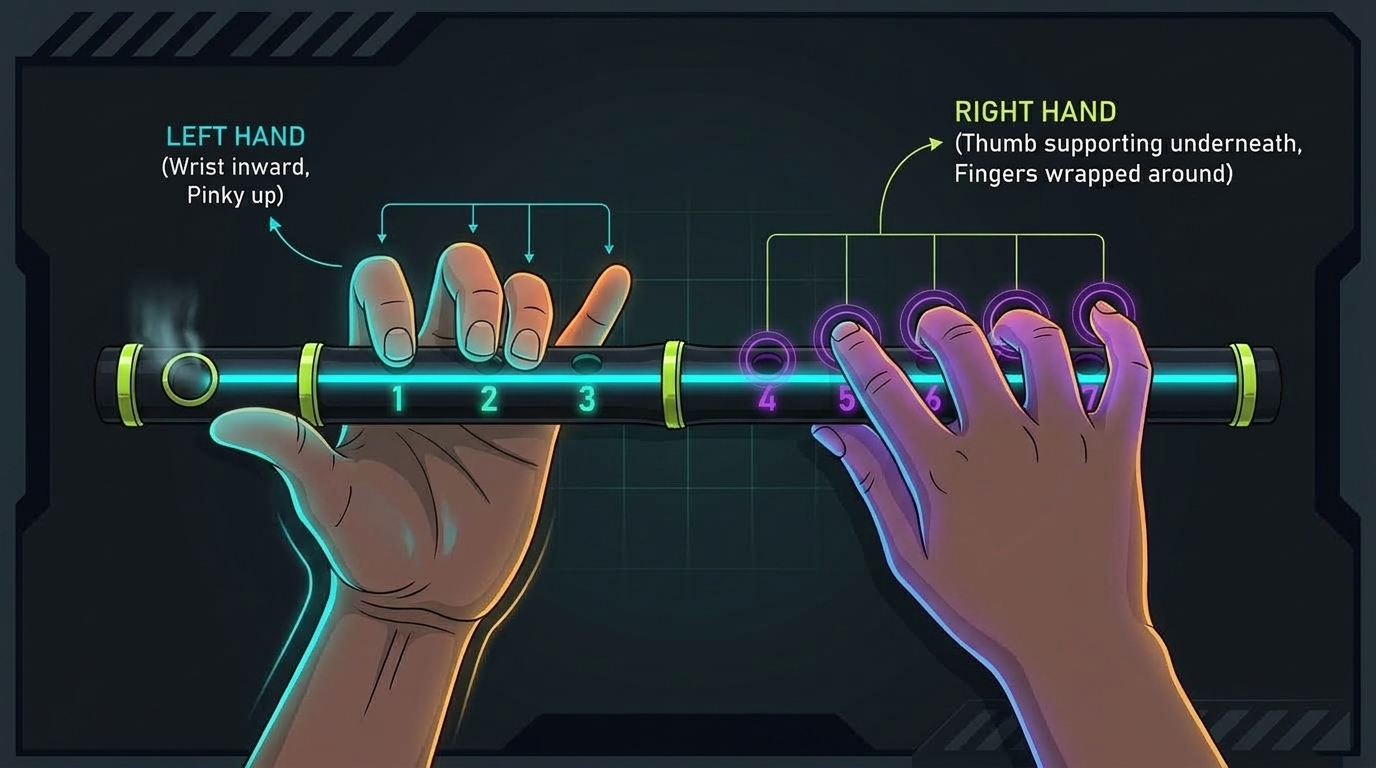
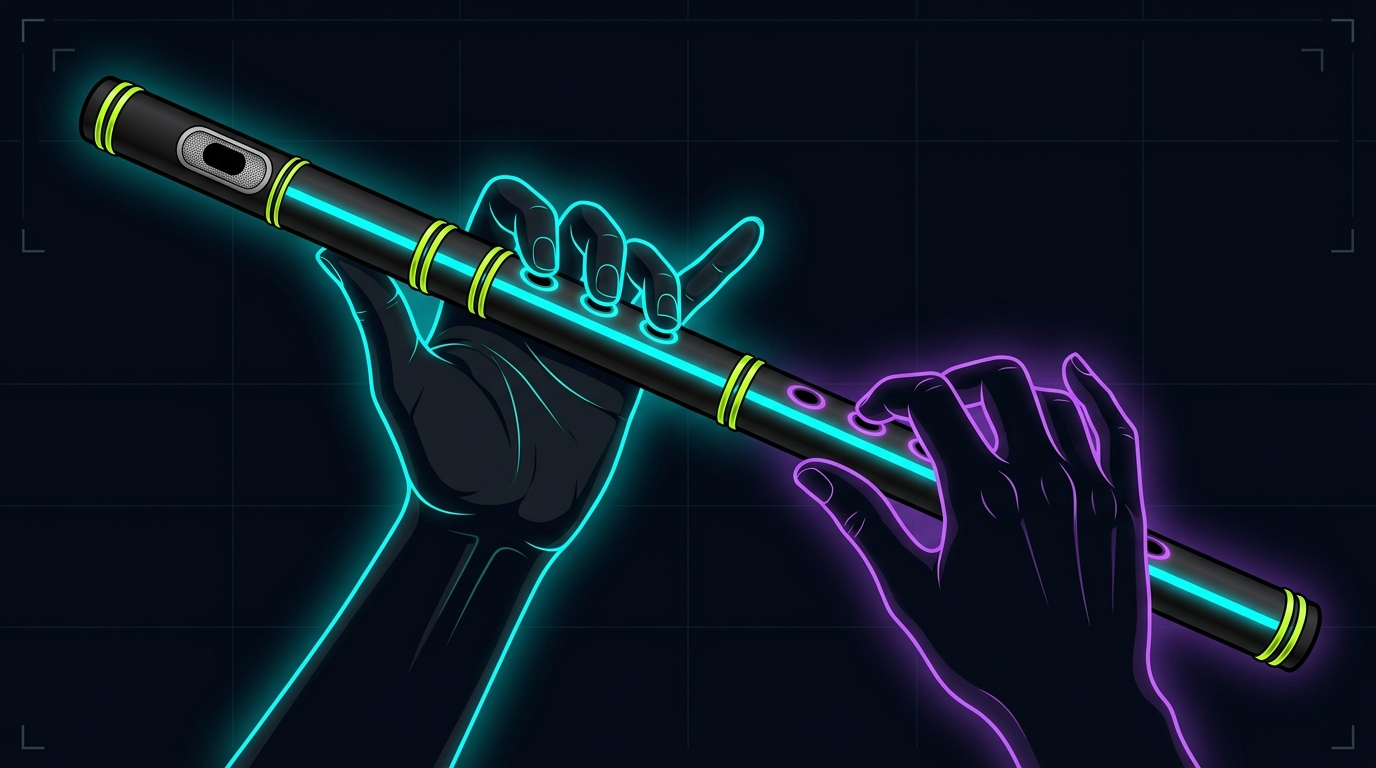
fixed learning page

diff --git a/index.html b/index.html
@@ -357,49 +357,104 @@
             </div>
 
             <!-- Upper-Half Body Animated Player Stance SVG Graphic -->
-            <!-- First-Person POV Hand Placement Graphic (Option 3 Authentic Artwork) -->
+            <!-- First-Person POV Hand Placement Graphic (Option 3 Slanted Aer Bender Flute) -->
             <div class="step-illustration-container player-perspective-container">
               <div class="step1-visual-canvas">
-                <img src="assets/images/flute_first_person_pov.jpg" alt="First-Person POV Flute Hand Placement" class="step1-base-img" />
+                <img src="assets/images/flute_first_person_pov.jpg" alt="First-Person POV Slanted Flute Hand Placement" class="step1-base-img" />
                 <svg viewBox="0 0 1376 768" class="step-flute-posture-svg" id="step1PostureSvg" preserveAspectRatio="xMidYMid meet">
                   <!-- Embedded Fallback Image -->
                   <image href="assets/images/flute_first_person_pov.jpg" xlink:href="assets/images/flute_first_person_pov.jpg" x="0" y="0" width="1376" height="768" preserveAspectRatio="xMidYMid meet" opacity="0"/>
 
                   <!-- Player Upper Body / Hand Stance Interactive Overlay -->
                   <g class="player-upper-body" id="playerUpperBodyStance">
-                    <!-- Embouchure Blow Marker & Breath Waves -->
-                    <g class="step-embouchure-marker" transform="translate(190, 384)">
-                      <circle cx="0" cy="0" r="14" fill="#00f0ff" class="pulse-blow-core" opacity="0.35"/>
-                      <path class="breath-wave anim-b1" d="M -12 -22 Q -6 -7 0 0" stroke="#00f0ff" stroke-width="2.5" stroke-linecap="round" fill="none"/>
-                      <path class="breath-wave anim-b2" d="M 0 -26 Q 0 -9 0 0" stroke="#ccff00" stroke-width="2.8" stroke-linecap="round" fill="none"/>
-                      <path class="breath-wave anim-b3" d="M 12 -22 Q 6 -7 0 0" stroke="#00f0ff" stroke-width="2.5" stroke-linecap="round" fill="none"/>
+                    <!-- Embouchure Blow Marker & Concentric Breath Waves -->
+                    <g class="step-embouchure-marker" transform="translate(215, 205)">
+                      <circle cx="0" cy="0" r="16" fill="#00f0ff" class="pulse-blow-core" opacity="0.35"/>
+                      <path class="breath-wave anim-b1" d="M -14 -22 Q -7 -7 0 0" stroke="#00f0ff" stroke-width="2.6" stroke-linecap="round" fill="none"/>
+                      <path class="breath-wave anim-b2" d="M 0 -26 Q 0 -9 0 0" stroke="#ccff00" stroke-width="3" stroke-linecap="round" fill="none"/>
+                      <path class="breath-wave anim-b3" d="M 14 -22 Q 7 -7 0 0" stroke="#00f0ff" stroke-width="2.6" stroke-linecap="round" fill="none"/>
+                      <text x="0" y="-36" font-family="'Space Grotesk', sans-serif" font-size="14" font-weight="800" fill="#00f0ff" text-anchor="middle" letter-spacing="1">BLOW (◎)</text>
                     </g>
 
-                    <!-- Hovering holographic rings over finger positions -->
+                    <!-- Left Hand Hovering Finger Rings (Slanted Hole Placement) -->
                     <g class="left-hand-pov-group">
-                      <g transform="translate(390, 355)"><g class="anim-floating-finger f-anim-1"><circle cx="0" cy="0" r="16" fill="none" stroke="#00f0ff" stroke-width="1.8" opacity="0.6"/></g></g>
-                      <g transform="translate(488, 355)"><g class="anim-floating-finger f-anim-2"><circle cx="0" cy="0" r="16" fill="none" stroke="#00f0ff" stroke-width="1.8" opacity="0.6"/></g></g>
-                      <g transform="translate(585, 355)"><g class="anim-floating-finger f-anim-3"><circle cx="0" cy="0" r="16" fill="none" stroke="#00f0ff" stroke-width="1.8" opacity="0.6"/></g></g>
-                      <g transform="translate(605, 275)"><g class="anim-floating-finger f-anim-1"><circle cx="0" cy="0" r="12" fill="none" stroke="#ccff00" stroke-width="1.5" stroke-dasharray="3,3" opacity="0.5"/></g></g>
+                      <!-- H1 -->
+                      <g transform="translate(520, 375)">
+                        <g class="anim-floating-finger f-anim-1">
+                          <circle cx="0" cy="0" r="18" fill="none" stroke="#00f0ff" stroke-width="2" opacity="0.7"/>
+                        </g>
+                        <text x="0" y="-24" font-family="'JetBrains Mono', monospace" font-size="12" font-weight="800" fill="#00f0ff" text-anchor="middle">1</text>
+                      </g>
+                      <!-- H2 -->
+                      <g transform="translate(585, 410)">
+                        <g class="anim-floating-finger f-anim-2">
+                          <circle cx="0" cy="0" r="18" fill="none" stroke="#00f0ff" stroke-width="2" opacity="0.7"/>
+                        </g>
+                        <text x="0" y="-24" font-family="'JetBrains Mono', monospace" font-size="12" font-weight="800" fill="#00f0ff" text-anchor="middle">2</text>
+                      </g>
+                      <!-- H3 -->
+                      <g transform="translate(655, 445)">
+                        <g class="anim-floating-finger f-anim-3">
+                          <circle cx="0" cy="0" r="18" fill="none" stroke="#00f0ff" stroke-width="2" opacity="0.7"/>
+                        </g>
+                        <text x="0" y="-24" font-family="'JetBrains Mono', monospace" font-size="12" font-weight="800" fill="#00f0ff" text-anchor="middle">3</text>
+                      </g>
+                      <!-- Pinky Up in the air -->
+                      <g transform="translate(730, 315)">
+                        <g class="anim-floating-finger f-anim-1">
+                          <circle cx="0" cy="0" r="14" fill="none" stroke="#ccff00" stroke-width="1.8" stroke-dasharray="3,3" opacity="0.7"/>
+                        </g>
+                        <text x="0" y="-22" font-family="'JetBrains Mono', monospace" font-size="13" font-weight="800" fill="#ccff00" text-anchor="middle" letter-spacing="0.5">Pinky Up</text>
+                      </g>
                     </g>
 
+                    <!-- Right Hand Hovering Finger Rings (Slanted Hole Placement) -->
                     <g class="right-hand-pov-group">
-                      <g transform="translate(760, 355)"><g class="anim-floating-finger f-anim-4"><circle cx="0" cy="0" r="16" fill="none" stroke="#c084fc" stroke-width="1.8" opacity="0.6"/></g></g>
-                      <g transform="translate(850, 355)"><g class="anim-floating-finger f-anim-5"><circle cx="0" cy="0" r="16" fill="none" stroke="#c084fc" stroke-width="1.8" opacity="0.6"/></g></g>
-                      <g transform="translate(940, 355)"><g class="anim-floating-finger f-anim-6"><circle cx="0" cy="0" r="16" fill="none" stroke="#c084fc" stroke-width="1.8" opacity="0.6"/></g></g>
-                      <g transform="translate(1030, 355)"><g class="anim-floating-finger f-anim-7"><circle cx="0" cy="0" r="16" fill="none" stroke="#c084fc" stroke-width="1.8" opacity="0.6"/></g></g>
+                      <!-- H4 -->
+                      <g transform="translate(875, 545)">
+                        <g class="anim-floating-finger f-anim-4">
+                          <circle cx="0" cy="0" r="18" fill="none" stroke="#c084fc" stroke-width="2" opacity="0.7"/>
+                        </g>
+                        <text x="0" y="-24" font-family="'JetBrains Mono', monospace" font-size="12" font-weight="800" fill="#c084fc" text-anchor="middle">4</text>
+                      </g>
+                      <!-- H5 -->
+                      <g transform="translate(935, 575)">
+                        <g class="anim-floating-finger f-anim-5">
+                          <circle cx="0" cy="0" r="18" fill="none" stroke="#c084fc" stroke-width="2" opacity="0.7"/>
+                        </g>
+                        <text x="0" y="-24" font-family="'JetBrains Mono', monospace" font-size="12" font-weight="800" fill="#c084fc" text-anchor="middle">5</text>
+                      </g>
+                      <!-- H6 -->
+                      <g transform="translate(1020, 610)">
+                        <g class="anim-floating-finger f-anim-6">
+                          <circle cx="0" cy="0" r="18" fill="none" stroke="#c084fc" stroke-width="2" opacity="0.7"/>
+                        </g>
+                        <text x="0" y="-24" font-family="'JetBrains Mono', monospace" font-size="12" font-weight="800" fill="#c084fc" text-anchor="middle">6</text>
+                      </g>
+                      <!-- H7 -->
+                      <g transform="translate(1100, 650)">
+                        <g class="anim-floating-finger f-anim-7">
+                          <circle cx="0" cy="0" r="18" fill="none" stroke="#c084fc" stroke-width="2" opacity="0.7"/>
+                        </g>
+                        <text x="0" y="-24" font-family="'JetBrains Mono', monospace" font-size="12" font-weight="800" fill="#c084fc" text-anchor="middle">7</text>
+                      </g>
                     </g>
 
-                    <!-- Structural Orientation Labels (Space Grotesk / JetBrains Mono) -->
-                    <g transform="translate(170, 48)">
-                      <rect x="0" y="0" width="224" height="28" rx="4" fill="#081226" stroke="#00f0ff" stroke-width="1.5" opacity="0.9"/>
-                      <text x="112" y="19" font-family="'Space Grotesk', sans-serif" font-size="11" font-weight="800" fill="#00f0ff" text-anchor="middle" letter-spacing="1">LEFT: PALM FACES YOU</text>
+                    <!-- Left Hand HUD Banner (Space Grotesk & JetBrains Mono) -->
+                    <g transform="translate(360, 85)">
+                      <rect x="-135" y="-16" width="270" height="34" rx="5" fill="#081226" stroke="#000000" stroke-width="2.5"/>
+                      <rect x="-133" y="-14" width="266" height="30" rx="4" fill="none" stroke="#00f0ff" stroke-width="1.8"/>
+                      <text x="0" y="6" font-family="'Space Grotesk', sans-serif" font-size="13" font-weight="800" fill="#ffffff" text-anchor="middle" letter-spacing="1">LEFT: <tspan fill="#00f0ff">PALM FACES YOU</tspan></text>
+                      <path d="M 0 18 L 40 120" stroke="#00f0ff" stroke-width="1.5" stroke-dasharray="3,3" opacity="0.5"/>
                     </g>
-                    <g transform="translate(976, 48)">
-                      <rect x="0" y="0" width="234" height="28" rx="4" fill="#170c2a" stroke="#c084fc" stroke-width="1.5" opacity="0.9"/>
-                      <text x="117" y="19" font-family="'Space Grotesk', sans-serif" font-size="11" font-weight="800" fill="#c084fc" text-anchor="middle" letter-spacing="1">RIGHT: PALM FACES FORWARD</text>
+
+                    <!-- Right Hand HUD Banner (Space Grotesk & JetBrains Mono) -->
+                    <g transform="translate(1010, 85)">
+                      <rect x="-145" y="-16" width="290" height="34" rx="5" fill="#170c2a" stroke="#000000" stroke-width="2.5"/>
+                      <rect x="-143" y="-14" width="286" height="30" rx="4" fill="none" stroke="#c084fc" stroke-width="1.8"/>
+                      <text x="0" y="6" font-family="'Space Grotesk', sans-serif" font-size="13" font-weight="800" fill="#ffffff" text-anchor="middle" letter-spacing="1">RIGHT: <tspan fill="#c084fc">PALM FACES FORWARD</tspan></text>
+                      <path d="M 0 18 L -30 220" stroke="#c084fc" stroke-width="1.5" stroke-dasharray="3,3" opacity="0.5"/>
                     </g>
-                    <text x="592" y="238" font-family="'JetBrains Mono', monospace" font-size="11" font-weight="800" fill="#ccff00" text-anchor="middle" letter-spacing="0.5">Pinky Up</text>
                   </g>
                 </svg>
               </div>
